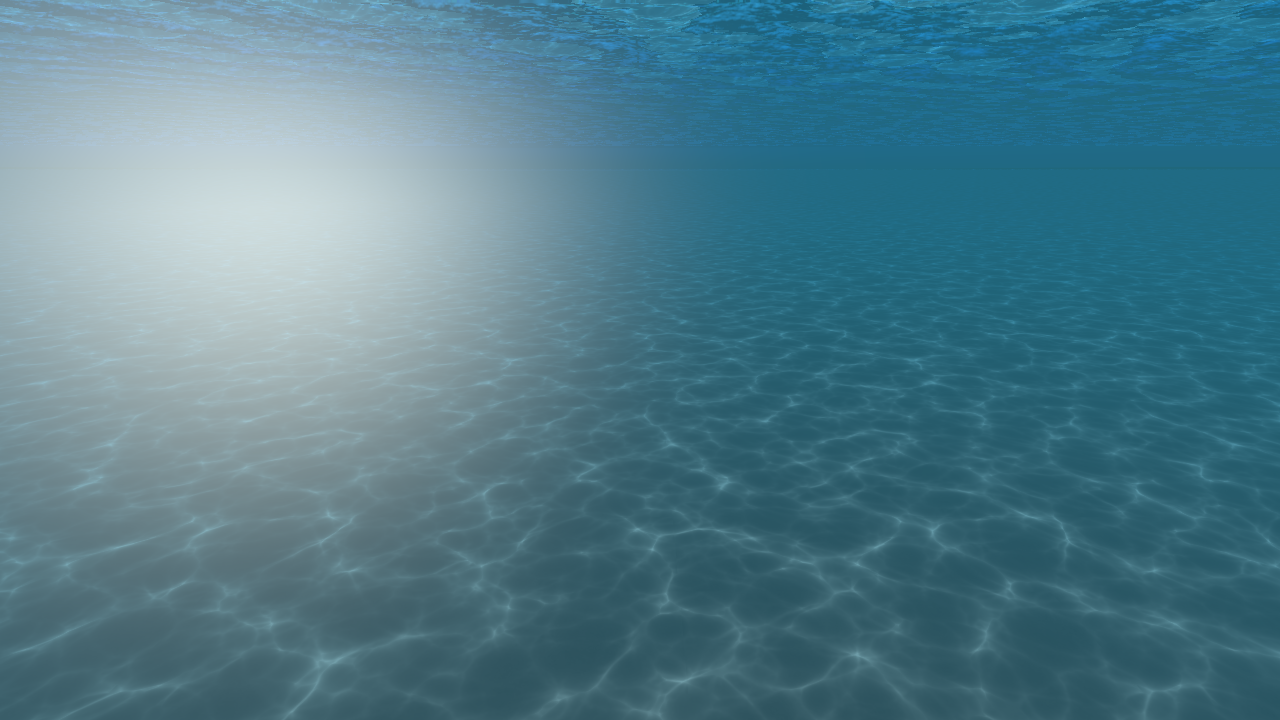
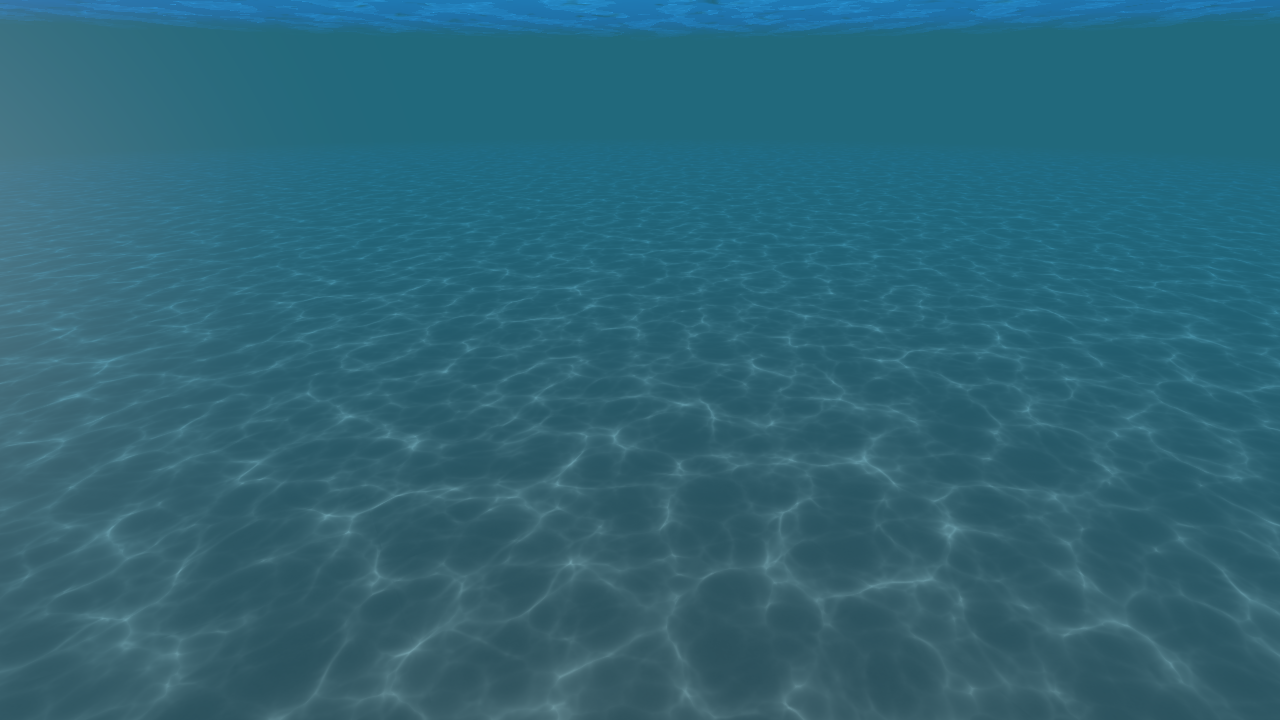
fix: soften underwater lighting and horizon transition

diff --git a/Assets/FFT-Ocean/Scripts/FFTOceanPortfolioCapture.cs b/Assets/FFT-Ocean/Scripts/FFTOceanPortfolioCapture.cs
@@ -26,6 +26,7 @@ public sealed class FFTOceanPortfolioCapture : MonoBehaviour
     private Texture2D readbackTexture;
     private string outputDirectory;
     private int outputFrameIndex;
+    private bool underwaterOnly;
 
     [RuntimeInitializeOnLoadMethod(RuntimeInitializeLoadType.AfterSceneLoad)]
     private static void CreateWhenRequested()
@@ -38,6 +39,7 @@ public sealed class FFTOceanPortfolioCapture : MonoBehaviour
         GameObject captureObject = new GameObject("FFT Ocean Portfolio Capture");
         FFTOceanPortfolioCapture capture = captureObject.AddComponent<FFTOceanPortfolioCapture>();
         capture.outputDirectory = Path.GetFullPath(arguments[argumentIndex + 1]);
+        capture.underwaterOnly = Array.IndexOf(arguments, "-fftOceanUnderwaterOnly") >= 0;
         DontDestroyOnLoad(captureObject);
     }
 
@@ -73,7 +75,7 @@ public sealed class FFTOceanPortfolioCapture : MonoBehaviour
         while (!ocean.IsSimulationReady)
             yield return null;
 
-        for (int presetIndex = 0; presetIndex < Presets.Length; presetIndex++)
+        for (int presetIndex = 0; !underwaterOnly && presetIndex < Presets.Length; presetIndex++)
         {
             CapturePreset preset = Presets[presetIndex];
             ocean.ApplySimulationParameters(preset.windSpeed, preset.choppiness, preset.simulationSpeed);
@@ -97,11 +99,23 @@ public sealed class FFTOceanPortfolioCapture : MonoBehaviour
             }
         }
 
+        if (underwaterOnly)
+        {
+            CapturePreset preset = Presets[Presets.Length - 1];
+            ocean.ApplySimulationParameters(preset.windSpeed, preset.choppiness, preset.simulationSpeed);
+            for (int warmupFrame = 0; warmupFrame < SimulationFrameRate * 9; warmupFrame++)
+                yield return null;
+        }
+
         captureCamera.transform.SetPositionAndRotation(
             new Vector3(0f, -8f, -12f),
             Quaternion.Euler(18f, 0f, 0f));
         for (int warmupFrame = 0; warmupFrame < SimulationFrameRate; warmupFrame++)
             yield return null;
+        CaptureFrame(Path.Combine(outputDirectory, "underwater-horizon-check.png"));
+
+        captureCamera.transform.rotation = Quaternion.Euler(23f, 30f, 0f);
+        yield return null;
         CaptureFrame(Path.Combine(outputDirectory, "still-underwater.png"));
 
         File.WriteAllText(

diff --git a/Assets/FFT-Ocean/Editor/FFTOceanMediaBuild.cs b/Assets/FFT-Ocean/Editor/FFTOceanMediaBuild.cs
@@ -3,14 +3,30 @@ using System;
 using System.IO;
 using UnityEditor;
 using UnityEditor.Build.Reporting;
+using UnityEditor.SceneManagement;
 using UnityEngine;
 
 public static class FFTOceanMediaBuild
 {
+    public static void TuneUnderwaterAndBuildCapturePlayer()
+    {
+        var scene = EditorSceneManager.OpenScene("Assets/Scenes/FFT-Ocean.unity");
+        FFTOceanUnderwaterController underwater = UnityEngine.Object.FindObjectOfType<FFTOceanUnderwaterController>();
+        if (underwater == null)
+            throw new InvalidOperationException("The portfolio scene is missing its underwater controller");
+
+        SerializedObject settings = new SerializedObject(underwater);
+        settings.FindProperty("lightShaftStrength").floatValue = 0.12f;
+        settings.ApplyModifiedPropertiesWithoutUndo();
+        EditorSceneManager.MarkSceneDirty(scene);
+        EditorSceneManager.SaveScene(scene);
+        BuildCapturePlayer();
+    }
+
     public static void BuildCapturePlayer()
     {
         string projectRoot = Directory.GetParent(Application.dataPath).FullName;
-        string outputDirectory = Path.Combine(projectRoot, "Temp", "PortfolioCapturePlayer");
+        string outputDirectory = Path.Combine(projectRoot, "Builds", "PortfolioCapturePlayer");
         Directory.CreateDirectory(outputDirectory);
         string executablePath = Path.Combine(outputDirectory, "FFTOceanCapture.exe");
 

diff --git a/docs/ARCHITECTURE.md b/docs/ARCHITECTURE.md
@@ -56,6 +56,10 @@ The pass reconstructs world position from the camera depth texture, computes the
 - Directional light shafts
 - Depth-faded projected caustics on underwater geometry
 
+The last 30 percent of `Maximum Visibility` smoothly removes the remaining transmitted scene colour and completes the transition into the scattering colour. Distant seabed geometry and empty water therefore converge to the same colour instead of revealing a hard geometry boundary
+
+The showcase scene uses `Light Shaft Strength = 0.12` to retain subtle directional illumination while keeping the projected caustics readable
+
 The two caustics layers move with equal and opposite offsets. Their average projection anchor remains fixed, so the pattern changes internally without the entire projection oscillating across the seabed
 
 ## Main runtime files
@@ -69,4 +73,3 @@ The two caustics layers move with equal and opposite offsets. Their average proj
 | `FFTOceanUnderwaterFeature.cs` | URP renderer feature and fullscreen pass |
 | `FFTOceanUnderwaterController.cs` | Waterline state and underwater material parameters |
 | `FFTOceanUnderwaterURP.shader` | Underwater optical and caustics composition |
-

diff --git a/README.md b/README.md
@@ -18,6 +18,8 @@ The following capture runs the real Unity scene and switches between three restr
 
 Underwater rendering uses the same animated FFT surface, with depth-aware absorption, scattering, the waterline, and two-layer projected caustics
 
+The underwater preview uses a light-shaft strength of `0.12` and a gentle distant-water fade to preserve the contrast of the caustic pattern
+
 ![Underwater rendering and projected caustics](docs/media/ocean-underwater.png)
 
 ## Highlights
@@ -153,6 +155,8 @@ No open-source license is granted by this repository. The code and original proj
 | ![基准海况](docs/media/ocean-baseline.png) | ![更锐利的浪尖](docs/media/ocean-sharp-crests.png) | ![更强的风浪](docs/media/ocean-stronger-wind.png) |
 
 水下画面继续使用同一套 FFT 动态水面，并叠加基于深度的吸收、散射、水线与双层投影焦散
+
+水下预览将光束强度设为 `0.12`，配合远景水色渐隐，让焦散花纹保持清晰的对比度
 
 ![水下渲染与投影焦散](docs/media/ocean-underwater.png)
 
